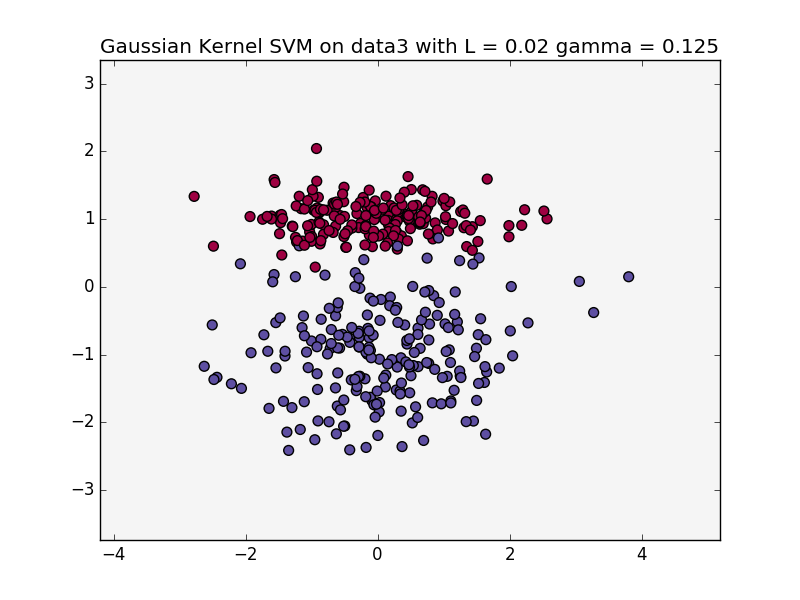
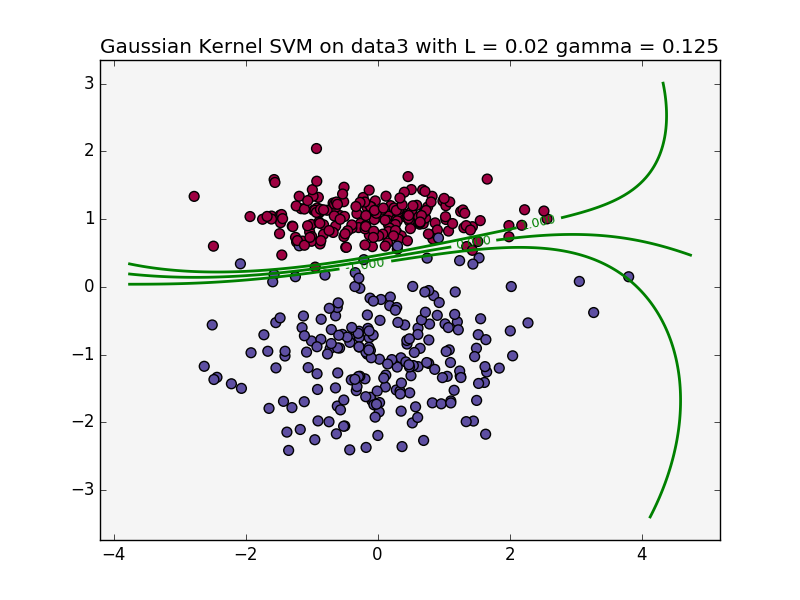
Problem 3 changed a bit; added plots

diff --git a/hw2_resources/pegasos_gaussian_test.py b/hw2_resources/pegasos_gaussian_test.py
@@ -26,7 +26,7 @@ def gaussian_gram(x, gamma):
     dists_sq += pt_sq_norms
     # turn into an RBF gram matrix
     km = dists_sq; del dists_sq
-    km *= -1. * gamma
+    km *= -1.*gamma
     K = np.exp(km)  # exponentiates in-place
     return K 
 
@@ -50,7 +50,8 @@ def train_gaussianSVM(X, Y, K, L, max_epochs):
 
     epoch = 0
     while epoch < max_epochs:
-        print 'Epoch ...',epoch
+        if epoch %100 == 0:
+            print 'Epoch ...',epoch
         for i in range(n):
             t += 1
             eta = 1.0/(t*L)
@@ -61,9 +62,10 @@ def train_gaussianSVM(X, Y, K, L, max_epochs):
             else:
                 alpha[i] = (1-eta*L)*alpha[i]
         epoch += 1
+        print 'epoch', epoch, alpha
     #grab support vectors at alpha = 0
     alpha = np.absolute(alpha)
-    support = alpha != 0# > 1e-5 # or alpha<-1e-3
+    support = alpha > 1e-15 # or alpha<-1e-3
     if debug:
         print 'Support', support.shape
     SVM_alpha = alpha[support].reshape(-1,1)
@@ -88,10 +90,10 @@ Y = train[:,2:3]
 #X = np.asfarray([[2,2],[2,3],[0,-1],[-3,-2]])
 #Y = np.asfarray([[1],[1],[-1],[-1]])
 # Carry out training.
-epochs = 1000;
+epochs = 3;
 lmbda = .02;
 global gamma 
-gamma = 0.125;
+gamma = 256;
 
 
 K = gaussian_gram(X, gamma)
@@ -99,7 +101,10 @@ K = gaussian_gram(X, gamma)
 global alpha, SVM_alpha, SVM_X, SVM_Y
 alpha, SVM_alpha, SVM_X, SVM_Y = train_gaussianSVM(X, Y, K, lmbda, epochs);
 
-
+print 'Number of support vectors', len(SVM_alpha), SVM_alpha
+#print SVM_alpha
+support = alpha>1e-15
+print np.sum(support)
 # print SVM_X
 def gaussian_kernel(SVM_X,x,gamma):
     '''
@@ -113,8 +118,6 @@ def gaussian_kernel(SVM_X,x,gamma):
         return np.exp(sqr_diff)
 
     return np.apply_along_axis(gauss, 1, SVM_X ).reshape(-1,1)
-
-print 'Predicting values...'
 
 # Define the predict_gaussianSVM(x) function, which uses trained parameters, alpha
 def predict_gaussianSVM(x):
@@ -133,7 +136,7 @@ def predict_gaussianSVM(x):
     y = np.dot(ay.T, kernel)
 
     if debug:
-        print 'New y ', y
+        print 'New y ', y[0][0]
 
     return y
 
@@ -145,7 +148,7 @@ f.write('Number Support Vectors:\n')
 f.write(str(len(SVM_X)))
 f.close()
 
-print 'Plotting results...'
+print 'Predicting results...'
 
 # plot training results
 plotDecisionBoundary(X, Y, predict_gaussianSVM, [-1,0,1], title = 'Gaussian Kernel SVM on data' + str(name)+' with L = '+str(lmbda) +' gamma = '+str(gamma))

diff --git a/hw2_resources/svm_test.py b/hw2_resources/svm_test.py
@@ -12,7 +12,7 @@ train = loadtxt('data/data'+name+'_train.csv')
 X = train[:, 0:2].copy()
 Y = train[:, 2:3].copy()
 
-# Define paramters
+# Define parameters
 C = 1
 K = identity_gram(X)
 
